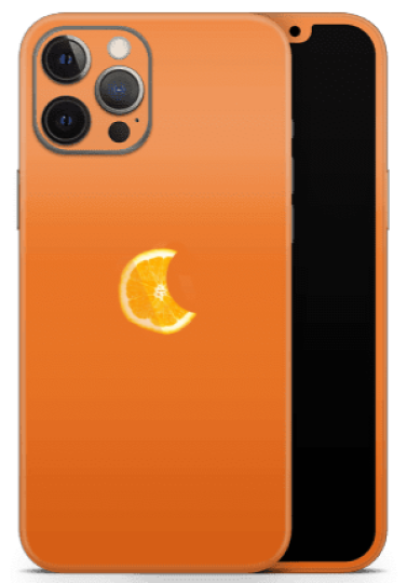
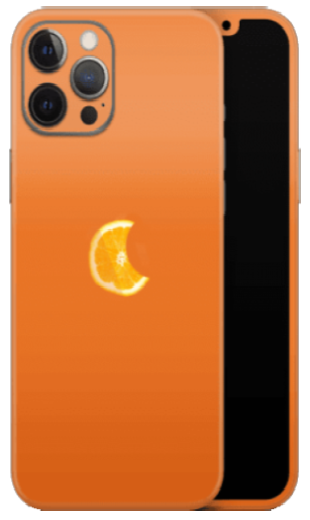
bytt storlek på bilder

Changed region(s): [[0.029, 0.0, 0.9871, 1.0], [0.2903, 0.4, 0.4935, 0.5846]]

diff --git a/styles/prudukt.css b/styles/prudukt.css
@@ -54,15 +54,7 @@ button{
 }
 .container img{
     width: 50%;
-    padding-top: 1.3em;
-    padding-bottom: 1.3em;
-}
-
-
-.container .black{
-    padding-top: 1em;
-    padding-bottom: 1.1em;
-    width: 40%;
+    padding: 1em;
 }
 
 .container{
@@ -108,7 +100,7 @@ p{
         grid-template-columns: 1fr 1fr;    
     }
     
-    @media (max-width: 470px) {
+    @media (max-width: 600px) {
         display:grid;
         grid-template-columns: 1fr;
     }

diff --git a/sidor/prudukt.html b/sidor/prudukt.html
@@ -71,7 +71,7 @@
 			</div>
 			<div class="container">
 
-				<img class="white" src="../bilder/white.png.png" alt="">
+				<img class="white" src="../bilder/white.png" alt="">
 				<a href="#">
 					<button>Köp</button>
 				</a>
